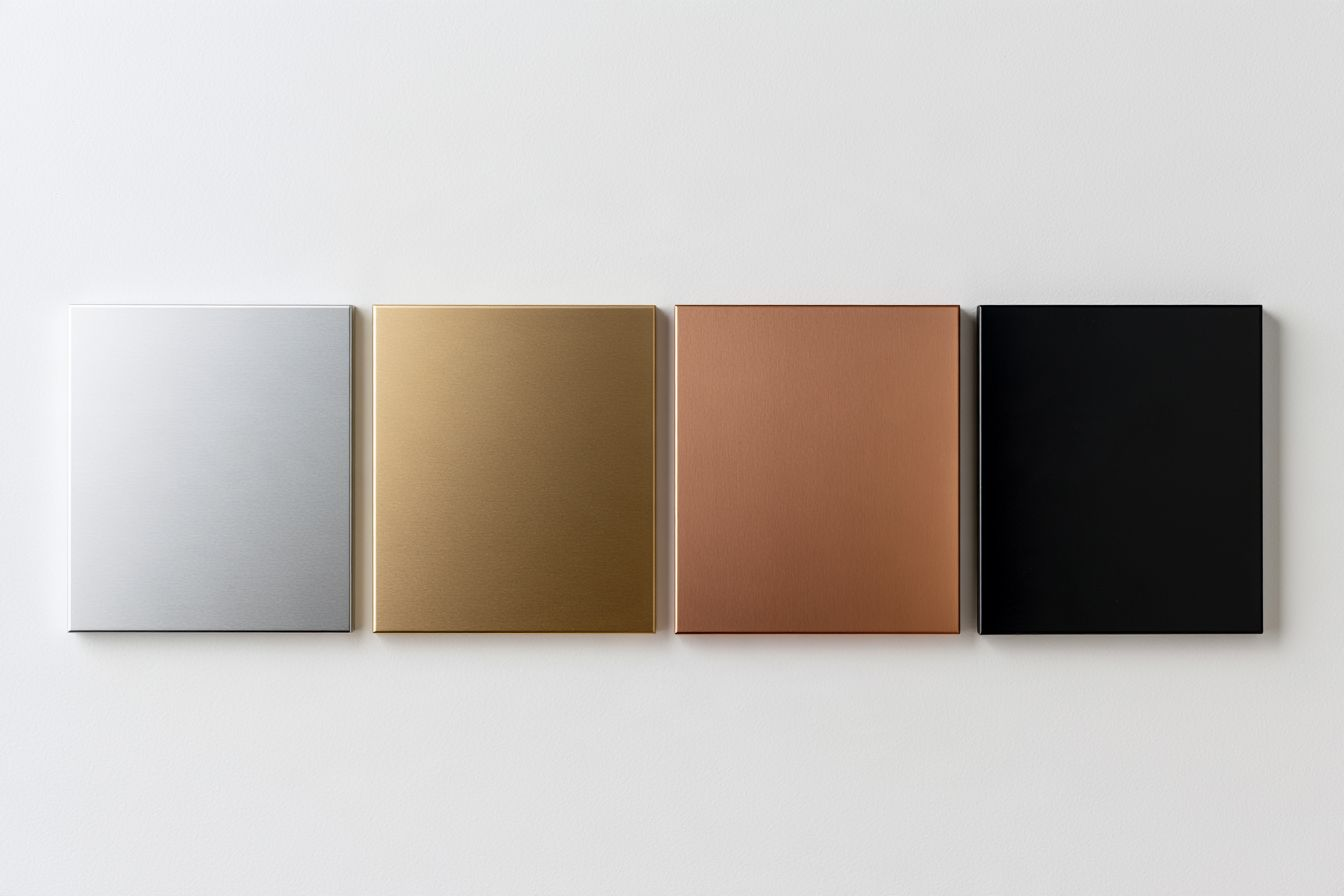
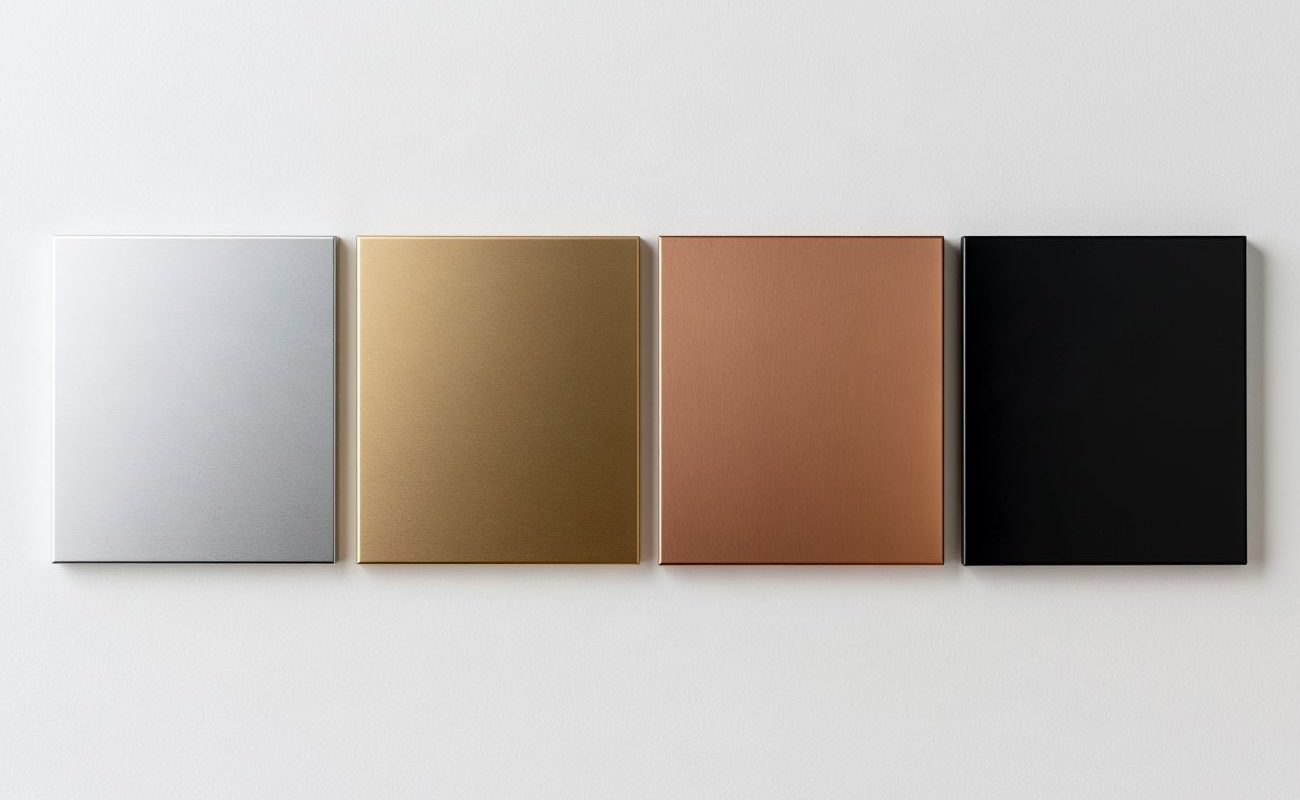
Applications: hover zoom on use photos; Home: samples photo uncropped; Company: statement heading over two text columns

Changed region(s): [[0.0308, 0.2812, 0.9846, 0.7188]]

diff --git a/src/pages/applications.html b/src/pages/applications.html
@@ -37,17 +37,17 @@
         </div>
         <div class="use-grid">
           <article class="use">
-            <div class="use-pair"><img src="assets/img/site/use-wall-panels-1.jpg" alt="Office with aluminium wall and ceiling panels" loading="lazy"><img src="assets/img/site/use-wall-panels-2.jpg" alt="Corridor lined with aluminium panels" loading="lazy"></div>
+            <div class="use-pair"><span class="use-photo"><img src="assets/img/site/use-wall-panels-1.jpg" alt="Office with aluminium wall and ceiling panels" loading="lazy"></span><span class="use-photo"><img src="assets/img/site/use-wall-panels-2.jpg" alt="Corridor lined with aluminium panels" loading="lazy"></span></div>
             <h3>Wall and ceiling panels</h3>
             <p>Robust and easy to keep clean, for lobbies, corridors and commercial spaces.</p>
           </article>
           <article class="use">
-            <div class="use-pair"><img src="assets/img/site/use-composite-panels-1.jpg" alt="Meeting room with composite aluminium ceiling panels" loading="lazy"><img src="assets/img/site/use-composite-panels-2.jpg" alt="Open-plan office with insulated panels" loading="lazy"></div>
+            <div class="use-pair"><span class="use-photo"><img src="assets/img/site/use-composite-panels-1.jpg" alt="Meeting room with composite aluminium ceiling panels" loading="lazy"></span><span class="use-photo"><img src="assets/img/site/use-composite-panels-2.jpg" alt="Open-plan office with insulated panels" loading="lazy"></span></div>
             <h3>Composite, honeycomb and insulated panels</h3>
             <p>A high strength-to-weight ratio, with thermal and acoustic insulation for partitions and offices.</p>
           </article>
           <article class="use">
-            <div class="use-pair"><img src="assets/img/site/use-column-covers-1.jpg" alt="Terminal hall with aluminium column covers" loading="lazy"><img src="assets/img/site/use-column-covers-2.jpg" alt="Hall with cylindrical aluminium column cladding" loading="lazy"></div>
+            <div class="use-pair"><span class="use-photo"><img src="assets/img/site/use-column-covers-1.jpg" alt="Terminal hall with aluminium column covers" loading="lazy"></span><span class="use-photo"><img src="assets/img/site/use-column-covers-2.jpg" alt="Hall with cylindrical aluminium column cladding" loading="lazy"></span></div>
             <h3>Column covers</h3>
             <p>Light and quick to install, for atriums, exhibition halls and public spaces.</p>
           </article>
@@ -67,22 +67,22 @@
         </div>
         <div class="use-grid">
           <article class="use">
-            <div class="use-pair"><img src="assets/img/site/use-living-1.jpg" alt="Living room with metal wall panels" loading="lazy"><img src="assets/img/site/use-living-2.jpg" alt="Kitchen with copper-toned aluminium surfaces" loading="lazy"></div>
+            <div class="use-pair"><span class="use-photo"><img src="assets/img/site/use-living-1.jpg" alt="Living room with metal wall panels" loading="lazy"></span><span class="use-photo"><img src="assets/img/site/use-living-2.jpg" alt="Kitchen with copper-toned aluminium surfaces" loading="lazy"></span></div>
             <h3>Living spaces</h3>
             <p>Surfaces that resist wear and stay good-looking with little upkeep.</p>
           </article>
           <article class="use">
-            <div class="use-pair"><img src="assets/img/site/use-design-accents-1.jpg" alt="Lobby with a faceted gold aluminium desk" loading="lazy"><img src="assets/img/site/use-design-accents-2.jpg" alt="Boutique with rose gold aluminium details" loading="lazy"></div>
+            <div class="use-pair"><span class="use-photo"><img src="assets/img/site/use-design-accents-1.jpg" alt="Lobby with a faceted gold aluminium desk" loading="lazy"></span><span class="use-photo"><img src="assets/img/site/use-design-accents-2.jpg" alt="Boutique with rose gold aluminium details" loading="lazy"></span></div>
             <h3>Design details</h3>
             <p>Finishes and colours that can be formed into many shapes.</p>
           </article>
           <article class="use">
-            <div class="use-pair"><img src="assets/img/site/use-door-panels-1.jpg" alt="Lift doors clad in laminated aluminium panels" loading="lazy"><img src="assets/img/site/use-door-panels-2.jpg" alt="Interior door with an aluminium panel" loading="lazy"></div>
+            <div class="use-pair"><span class="use-photo"><img src="assets/img/site/use-door-panels-1.jpg" alt="Lift doors clad in laminated aluminium panels" loading="lazy"></span><span class="use-photo"><img src="assets/img/site/use-door-panels-2.jpg" alt="Interior door with an aluminium panel" loading="lazy"></span></div>
             <h3>Laminated door panels</h3>
             <p>Scratch-resistant panels for homes and offices.</p>
           </article>
           <article class="use">
-            <div class="use-pair"><img src="assets/img/site/use-switch-plates-1.jpg" alt="Light switch with a brushed aluminium plate" loading="lazy"><img src="assets/img/site/use-switch-plates-2.jpg" alt="Dark anodized aluminium switch plate" loading="lazy"></div>
+            <div class="use-pair"><span class="use-photo"><img src="assets/img/site/use-switch-plates-1.jpg" alt="Light switch with a brushed aluminium plate" loading="lazy"></span><span class="use-photo"><img src="assets/img/site/use-switch-plates-2.jpg" alt="Dark anodized aluminium switch plate" loading="lazy"></span></div>
             <h3>Switch plates</h3>
             <p>Plates that resist fingerprints and suit many interiors.</p>
           </article>
@@ -102,22 +102,22 @@
         </div>
         <div class="use-grid">
           <article class="use">
-            <div class="use-pair"><img src="assets/img/site/use-displays-1.jpg" alt="Cosmetics display unit in a store" loading="lazy"><img src="assets/img/site/use-displays-2.jpg" alt="Perfume display with metal fittings" loading="lazy"></div>
+            <div class="use-pair"><span class="use-photo"><img src="assets/img/site/use-displays-1.jpg" alt="Cosmetics display unit in a store" loading="lazy"></span><span class="use-photo"><img src="assets/img/site/use-displays-2.jpg" alt="Perfume display with metal fittings" loading="lazy"></span></div>
             <h3>Product displays</h3>
             <p>Durable in high-traffic stores, with little need for replacement.</p>
           </article>
           <article class="use">
-            <div class="use-pair"><img src="assets/img/site/use-fashion-1.jpg" alt="Fashion store with copper aluminium fittings" loading="lazy"><img src="assets/img/site/use-fashion-2.jpg" alt="Boutique with a sculpted metal ceiling" loading="lazy"></div>
+            <div class="use-pair"><span class="use-photo"><img src="assets/img/site/use-fashion-1.jpg" alt="Fashion store with copper aluminium fittings" loading="lazy"></span><span class="use-photo"><img src="assets/img/site/use-fashion-2.jpg" alt="Boutique with a sculpted metal ceiling" loading="lazy"></span></div>
             <h3>Fashion stores</h3>
             <p>A sleek, luxurious material for fittings and décor.</p>
           </article>
           <article class="use">
-            <div class="use-pair"><img src="assets/img/site/use-signage-1.jpg" alt="Brushed aluminium signage plates on a wall" loading="lazy"><img src="assets/img/site/use-signage-2.jpg" alt="Aluminium sign with an embossed symbol" loading="lazy"></div>
+            <div class="use-pair"><span class="use-photo"><img src="assets/img/site/use-signage-1.jpg" alt="Brushed aluminium signage plates on a wall" loading="lazy"></span><span class="use-photo"><img src="assets/img/site/use-signage-2.jpg" alt="Aluminium sign with an embossed symbol" loading="lazy"></span></div>
             <h3>Signage</h3>
             <p>Colour that stays vivid and legible in malls, offices and venues.</p>
           </article>
           <article class="use">
-            <div class="use-pair"><img src="assets/img/site/use-cosmetics-1.jpg" alt="Cosmetic jars with gold aluminium lids" loading="lazy"><img src="assets/img/site/use-cosmetics-2.jpg" alt="Cosmetic bottles with metal caps" loading="lazy"></div>
+            <div class="use-pair"><span class="use-photo"><img src="assets/img/site/use-cosmetics-1.jpg" alt="Cosmetic jars with gold aluminium lids" loading="lazy"></span><span class="use-photo"><img src="assets/img/site/use-cosmetics-2.jpg" alt="Cosmetic bottles with metal caps" loading="lazy"></span></div>
             <h3>Cosmetics packaging</h3>
             <p>A premium, corrosion-resistant finish for high-end products.</p>
           </article>
@@ -137,17 +137,17 @@
         </div>
         <div class="use-grid">
           <article class="use">
-            <div class="use-pair"><img src="assets/img/site/use-appliances-1.jpg" alt="Kitchen with an aluminium-fronted fridge" loading="lazy"><img src="assets/img/site/use-appliances-2.jpg" alt="Kitchen with red cabinets and aluminium appliances" loading="lazy"></div>
+            <div class="use-pair"><span class="use-photo"><img src="assets/img/site/use-appliances-1.jpg" alt="Kitchen with an aluminium-fronted fridge" loading="lazy"></span><span class="use-photo"><img src="assets/img/site/use-appliances-2.jpg" alt="Kitchen with red cabinets and aluminium appliances" loading="lazy"></span></div>
             <h3>Appliances</h3>
             <p>Panels and trim that handle heat and look good.</p>
           </article>
           <article class="use">
-            <div class="use-pair"><img src="assets/img/site/use-electronics-1.jpg" alt="Laptop, camera and phone with aluminium bodies" loading="lazy"><img src="assets/img/site/use-electronics-2.jpg" alt="Smartphone with an aluminium frame" loading="lazy"></div>
+            <div class="use-pair"><span class="use-photo"><img src="assets/img/site/use-electronics-1.jpg" alt="Laptop, camera and phone with aluminium bodies" loading="lazy"></span><span class="use-photo"><img src="assets/img/site/use-electronics-2.jpg" alt="Smartphone with an aluminium frame" loading="lazy"></span></div>
             <h3>Electronic devices</h3>
             <p>Good heat dissipation helps keep devices cool and extends their life.</p>
           </article>
           <article class="use">
-            <div class="use-pair"><img src="assets/img/site/use-letterboxes-1.jpg" alt="Row of aluminium letterboxes outside a building" loading="lazy"><img src="assets/img/site/use-letterboxes-2.jpg" alt="Dark aluminium letterboxes on a wall" loading="lazy"></div>
+            <div class="use-pair"><span class="use-photo"><img src="assets/img/site/use-letterboxes-1.jpg" alt="Row of aluminium letterboxes outside a building" loading="lazy"></span><span class="use-photo"><img src="assets/img/site/use-letterboxes-2.jpg" alt="Dark aluminium letterboxes on a wall" loading="lazy"></span></div>
             <h3>Letterboxes</h3>
             <p>Corrosion resistance for products that live outdoors.</p>
           </article>
@@ -167,12 +167,12 @@
         </div>
         <div class="use-grid">
           <article class="use">
-            <div class="use-pair"><img src="assets/img/site/use-automotive-1.jpg" alt="Car interior with aluminium trim" loading="lazy"><img src="assets/img/site/use-automotive-2.jpg" alt="Car dashboard and seats with metal details" loading="lazy"></div>
+            <div class="use-pair"><span class="use-photo"><img src="assets/img/site/use-automotive-1.jpg" alt="Car interior with aluminium trim" loading="lazy"></span><span class="use-photo"><img src="assets/img/site/use-automotive-2.jpg" alt="Car dashboard and seats with metal details" loading="lazy"></span></div>
             <h3>Automotive interior trim</h3>
             <p>A premium finish that is easy to clean and resists wear.</p>
           </article>
           <article class="use">
-            <div class="use-pair"><img src="assets/img/site/use-cruise-1.jpg" alt="Cruise ship corridor with metal-clad walls" loading="lazy"><img src="assets/img/site/use-cruise-2.jpg" alt="Cruise ship atrium with aluminium surfaces" loading="lazy"></div>
+            <div class="use-pair"><span class="use-photo"><img src="assets/img/site/use-cruise-1.jpg" alt="Cruise ship corridor with metal-clad walls" loading="lazy"></span><span class="use-photo"><img src="assets/img/site/use-cruise-2.jpg" alt="Cruise ship atrium with aluminium surfaces" loading="lazy"></span></div>
             <h3>Trains and cruise ships</h3>
             <p>Light, corrosion-resistant surfaces for interiors that are used every day.</p>
           </article>

diff --git a/assets/css/site.css b/assets/css/site.css
@@ -276,7 +276,9 @@ p:last-child { margin-bottom: 0; }
 .use { display: grid; grid-template-columns: minmax(0, 1fr) minmax(0, 1.2fr); grid-template-areas: "title pair" "text pair"; column-gap: clamp(32px, 5vw, 80px); padding-block: clamp(20px, 2.2vw, 32px); border-top: 1px solid var(--line); }
 .use:nth-child(even) { grid-template-columns: minmax(0, 1.2fr) minmax(0, 1fr); grid-template-areas: "pair title" "pair text"; }
 .use-pair { grid-area: pair; display: grid; grid-template-columns: repeat(2, minmax(0, 1fr)); gap: 12px; }
-.use-pair img { width: 100%; aspect-ratio: 1; object-fit: cover; border-radius: var(--radius); }
+.use-photo { display: block; overflow: hidden; border-radius: var(--radius); }
+.use-pair img { width: 100%; aspect-ratio: 1; object-fit: cover; transition: transform 700ms cubic-bezier(.2, .7, .2, 1); }
+.use-photo:hover img { transform: scale(1.06); }
 .use h3 { grid-area: title; align-self: end; margin: 0 0 14px; font-size: clamp(1.6rem, 2.2vw, 2.1rem); }
 .use p { grid-area: text; align-self: start; max-width: 40ch; font-size: 1.05rem; color: var(--muted); line-height: 1.6; }
 
@@ -402,6 +404,12 @@ p:last-child { margin-bottom: 0; }
   .footer-bottom { flex-direction: column; align-items: flex-start; }
 }
 .head--top { align-items: start; }
+/* Statement heading across the page, the text below in two columns. */
+.head--stack { display: block; }
+.head--stack h2 { max-width: 18ch; margin-bottom: clamp(24px, 3vw, 40px); font-size: clamp(2.4rem, 4.2vw, 4rem); }
+.head--stack > div { display: grid; grid-template-columns: minmax(0, 1fr) minmax(0, 1fr); gap: 20px 64px; }
+.head--stack p { max-width: 52ch; }
+@media (max-width: 700px) { .head--stack > div { grid-template-columns: 1fr; } }
 .split figure.natural img { aspect-ratio: auto; }
 
 /* Laptops with Windows display scaling (125-175%) give the page a short window, about 1100 x 580.

diff --git a/src/pages/company.html b/src/pages/company.html
@@ -21,10 +21,10 @@
 
     <section class="section" aria-labelledby="what-title">
       <div class="wrap">
-        <div class="head head--top">
-          <h2 id="what-title">What we do</h2>
+        <div class="head head--stack">
+          <h2 id="what-title">We anodize aluminium<br>in continuous coil.</h2>
           <div>
-            <p>We specialise in continuous coil anodizing. The aluminium coil runs through every stage of the process on one of our two automated lines, from raw metal to finished surface, so the surface and the colour stay the same along the whole coil.</p>
+            <p>The aluminium coil runs through every stage of the process on one of our two automated lines, from raw metal to finished surface, so the surface and the colour stay the same along the whole coil.</p>
             <p>We supply the aluminium in coils, or cut into sheets and strips, in a range of dimensions, anodic layer thicknesses and colours. <a href="technology.html">How continuous coil anodizing works</a></p>
           </div>
         </div>

diff --git a/src/pages/index-video.html b/src/pages/index-video.html
@@ -58,8 +58,8 @@
           </ul>
           <a class="text-link" href="products.html">See the products <svg viewBox="0 0 24 24" aria-hidden="true"><path d="M4 12h15m-6-6 6 6-6 6"/></svg></a>
         </div>
-        <figure>
-          <img src="assets/img/site/home-products-samples.jpg" alt="Four anodized aluminium samples in silver, gold, copper and black" width="1344" height="896" loading="lazy">
+        <figure class="natural">
+          <img src="assets/img/site/home-products-samples.jpg" alt="Four anodized aluminium samples in silver, gold, copper and black" width="1300" height="800" loading="lazy">
         </figure>
       </div>
     </section>

diff --git a/src/pages/index.html b/src/pages/index.html
@@ -57,8 +57,8 @@
           </ul>
           <a class="text-link" href="products.html">See the products <svg viewBox="0 0 24 24" aria-hidden="true"><path d="M4 12h15m-6-6 6 6-6 6"/></svg></a>
         </div>
-        <figure>
-          <img src="assets/img/site/home-products-samples.jpg" alt="Four anodized aluminium samples in silver, gold, copper and black" width="1344" height="896" loading="lazy">
+        <figure class="natural">
+          <img src="assets/img/site/home-products-samples.jpg" alt="Four anodized aluminium samples in silver, gold, copper and black" width="1300" height="800" loading="lazy">
         </figure>
       </div>
     </section>
